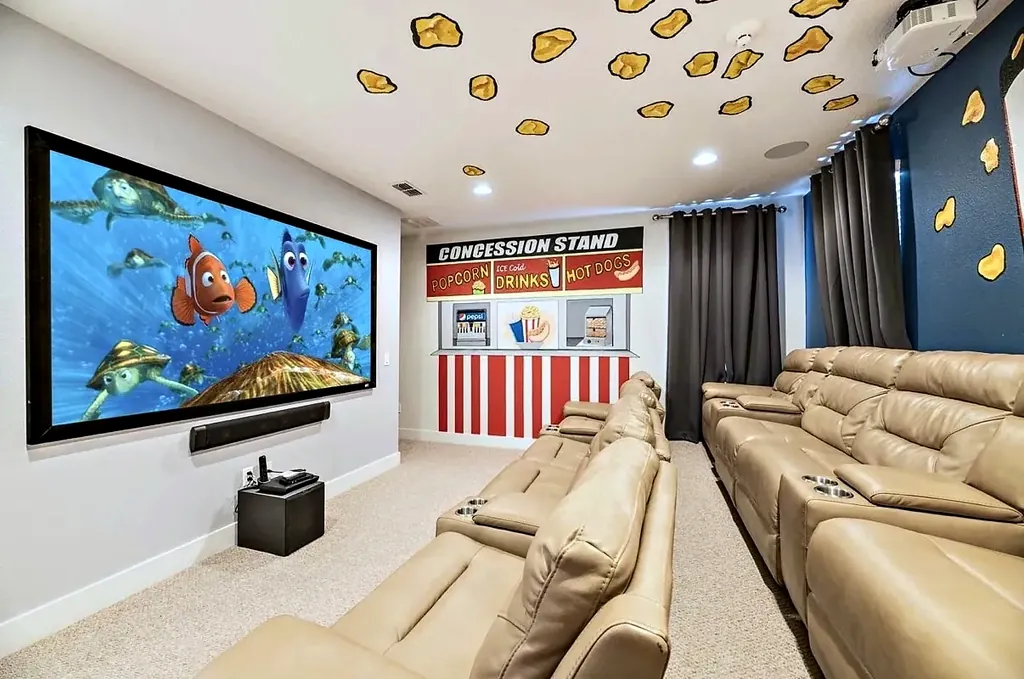
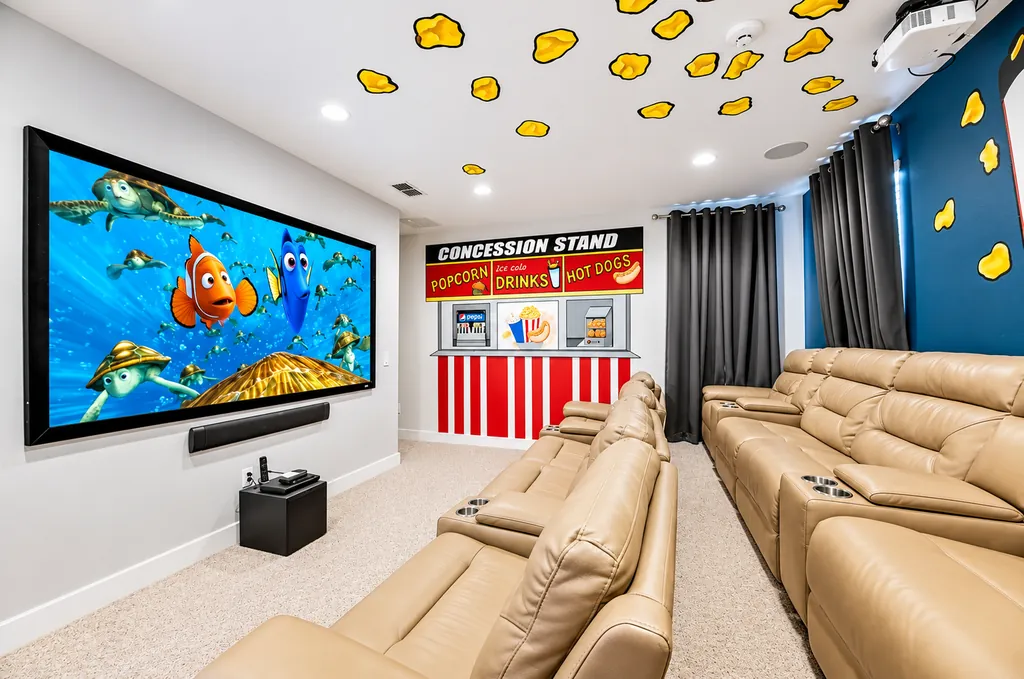
Replace home theater photo with the enhanced version

diff --git a/index.html b/index.html
@@ -9,7 +9,7 @@
 
   <meta property="og:title" content="Villa Serena · 8-Bedroom Private Pool Villa">
   <meta property="og:description" content="8 bedrooms · 8 bathrooms · 13 beds · private pool. Book your family's Orlando stay direct.">
-  <meta property="og:image" content="assets/img/pool-lanai.jpg?v=22">
+  <meta property="og:image" content="assets/img/pool-lanai.jpg?v=23">
   <meta property="og:type" content="website">
 
   <link rel="icon" href="assets/favicon.svg" type="image/svg+xml">
@@ -17,8 +17,8 @@
   <link rel="preconnect" href="https://fonts.gstatic.com" crossorigin>
   <link href="https://fonts.googleapis.com/css2?family=Newsreader:ital,opsz,wght@0,6..72,400;0,6..72,500;1,6..72,400&family=Instrument+Sans:wght@400;500;600&display=swap" rel="stylesheet">
 
-  <link rel="preload" as="image" href="assets/img/pool-lanai-1616.webp?v=22"
-        imagesrcset="assets/img/pool-lanai-640.webp?v=22 640w, assets/img/pool-lanai-1024.webp?v=22 1024w, assets/img/pool-lanai-1616.webp?v=22 1616w"
+  <link rel="preload" as="image" href="assets/img/pool-lanai-1616.webp?v=23"
+        imagesrcset="assets/img/pool-lanai-640.webp?v=23 640w, assets/img/pool-lanai-1024.webp?v=23 1024w, assets/img/pool-lanai-1616.webp?v=23 1616w"
         imagesizes="100vw" type="image/webp">
   <link rel="stylesheet" href="css/styles.css">
 </head>
@@ -79,9 +79,9 @@
   <div class="hero-media">
     <picture>
       <source type="image/webp"
-              srcset="assets/img/pool-lanai-640.webp?v=22 640w, assets/img/pool-lanai-1024.webp?v=22 1024w, assets/img/pool-lanai-1616.webp?v=22 1616w"
+              srcset="assets/img/pool-lanai-640.webp?v=23 640w, assets/img/pool-lanai-1024.webp?v=23 1024w, assets/img/pool-lanai-1616.webp?v=23 1616w"
               sizes="100vw">
-      <img src="assets/img/pool-lanai.jpg?v=22" alt="The villa's private pool and spa with sun loungers and a covered lanai" width="1616" height="967" fetchpriority="high">
+      <img src="assets/img/pool-lanai.jpg?v=23" alt="The villa's private pool and spa with sun loungers and a covered lanai" width="1616" height="967" fetchpriority="high">
     </picture>
   </div>
   <div class="hero-shade" aria-hidden="true"></div>
@@ -117,14 +117,14 @@
     <div class="welcome-media reveal">
       <figure class="wm-main">
         <picture>
-          <source type="image/webp" srcset="assets/img/exterior-front-640.webp?v=22 640w, assets/img/exterior-front-1024.webp?v=22 1024w, assets/img/exterior-front-1600.webp?v=22 1600w, assets/img/exterior-front-1632.webp?v=22 1632w" sizes="(min-width: 960px) 40vw, 90vw">
-          <img src="assets/img/exterior-front.jpg?v=22" alt="Front exterior of the two-storey villa with a paver driveway" width="1632" height="964" loading="lazy" decoding="async">
+          <source type="image/webp" srcset="assets/img/exterior-front-640.webp?v=23 640w, assets/img/exterior-front-1024.webp?v=23 1024w, assets/img/exterior-front-1600.webp?v=23 1600w, assets/img/exterior-front-1632.webp?v=23 1632w" sizes="(min-width: 960px) 40vw, 90vw">
+          <img src="assets/img/exterior-front.jpg?v=23" alt="Front exterior of the two-storey villa with a paver driveway" width="1632" height="964" loading="lazy" decoding="async">
         </picture>
       </figure>
       <figure class="wm-accent">
         <picture>
-          <source type="image/webp" srcset="assets/img/dining-living-640.webp?v=22 640w, assets/img/dining-living-1024.webp?v=22 1024w" sizes="(min-width: 960px) 22vw, 50vw">
-          <img src="assets/img/dining-living.jpg?v=22" alt="Open-plan dining area with a large table and the living room beyond" width="2560" height="1920" loading="lazy" decoding="async">
+          <source type="image/webp" srcset="assets/img/dining-living-640.webp?v=23 640w, assets/img/dining-living-1024.webp?v=23 1024w" sizes="(min-width: 960px) 22vw, 50vw">
+          <img src="assets/img/dining-living.jpg?v=23" alt="Open-plan dining area with a large table and the living room beyond" width="2560" height="1920" loading="lazy" decoding="async">
         </picture>
       </figure>
           </div>
@@ -135,15 +135,15 @@
 <section class="photo-band" aria-label="The kitchen and living room">
   <figure>
     <picture>
-      <source type="image/webp" srcset="assets/img/kitchen-640.webp?v=22 640w, assets/img/kitchen-1024.webp?v=22 1024w, assets/img/kitchen-1600.webp?v=22 1600w, assets/img/kitchen-1634.webp?v=22 1634w" sizes="(min-width: 760px) 50vw, 100vw">
-      <img src="assets/img/kitchen.jpg?v=22" alt="Kitchen with dark cabinets, stainless appliances and an island with four bar stools" width="1634" height="962" loading="lazy" decoding="async">
+      <source type="image/webp" srcset="assets/img/kitchen-640.webp?v=23 640w, assets/img/kitchen-1024.webp?v=23 1024w, assets/img/kitchen-1600.webp?v=23 1600w, assets/img/kitchen-1634.webp?v=23 1634w" sizes="(min-width: 760px) 50vw, 100vw">
+      <img src="assets/img/kitchen.jpg?v=23" alt="Kitchen with dark cabinets, stainless appliances and an island with four bar stools" width="1634" height="962" loading="lazy" decoding="async">
     </picture>
     <figcaption>Kitchen</figcaption>
   </figure>
   <figure>
     <picture>
-      <source type="image/webp" srcset="assets/img/living-room-640.webp?v=22 640w, assets/img/living-room-1024.webp?v=22 1024w, assets/img/living-room-1536.webp?v=22 1536w" sizes="(min-width: 760px) 50vw, 100vw">
-      <img src="assets/img/living-room.jpg?v=22" alt="Living room with sectional sofa and sliding doors to the pool" width="1536" height="1024" loading="lazy" decoding="async">
+      <source type="image/webp" srcset="assets/img/living-room-640.webp?v=23 640w, assets/img/living-room-1024.webp?v=23 1024w, assets/img/living-room-1536.webp?v=23 1536w" sizes="(min-width: 760px) 50vw, 100vw">
+      <img src="assets/img/living-room.jpg?v=23" alt="Living room with sectional sofa and sliding doors to the pool" width="1536" height="1024" loading="lazy" decoding="async">
     </picture>
     <figcaption>Living room</figcaption>
   </figure>
@@ -250,20 +250,20 @@
     <div class="villa-band reveal">
       <figure>
         <picture>
-          <source type="image/webp" srcset="assets/img/bedroom-twin-beds-640.webp?v=22 640w, assets/img/bedroom-twin-beds-1024.webp?v=22 1024w, assets/img/bedroom-twin-beds-1446.webp?v=22 1446w" sizes="(min-width: 960px) 33vw, 100vw">
-          <img src="assets/img/bedroom-twin-beds.jpg?v=22" alt="Bedroom with two beds and a tall upholstered headboard" width="1446" height="1087" loading="lazy" decoding="async">
+          <source type="image/webp" srcset="assets/img/bedroom-twin-beds-640.webp?v=23 640w, assets/img/bedroom-twin-beds-1024.webp?v=23 1024w, assets/img/bedroom-twin-beds-1446.webp?v=23 1446w" sizes="(min-width: 960px) 33vw, 100vw">
+          <img src="assets/img/bedroom-twin-beds.jpg?v=23" alt="Bedroom with two beds and a tall upholstered headboard" width="1446" height="1087" loading="lazy" decoding="async">
         </picture>
       </figure>
       <figure>
         <picture>
-          <source type="image/webp" srcset="assets/img/bunk-room-640.webp?v=22 640w, assets/img/bunk-room-1024.webp?v=22 1024w, assets/img/bunk-room-1600.webp?v=22 1600w" sizes="(min-width: 960px) 33vw, 100vw">
-          <img src="assets/img/bunk-room.jpg?v=22" alt="Kids' bunk room with a mural wall" width="2560" height="1920" loading="lazy" decoding="async">
+          <source type="image/webp" srcset="assets/img/bunk-room-640.webp?v=23 640w, assets/img/bunk-room-1024.webp?v=23 1024w, assets/img/bunk-room-1600.webp?v=23 1600w" sizes="(min-width: 960px) 33vw, 100vw">
+          <img src="assets/img/bunk-room.jpg?v=23" alt="Kids' bunk room with a mural wall" width="2560" height="1920" loading="lazy" decoding="async">
         </picture>
       </figure>
       <figure>
         <picture>
-          <source type="image/webp" srcset="assets/img/bathroom-double-vanity-640.webp?v=22 640w, assets/img/bathroom-double-vanity-1024.webp?v=22 1024w, assets/img/bathroom-double-vanity-1600.webp?v=22 1600w, assets/img/bathroom-double-vanity-1645.webp?v=22 1645w" sizes="(min-width: 960px) 33vw, 100vw">
-          <img src="assets/img/bathroom-double-vanity.jpg?v=22" alt="Bathroom with a double vanity, glass shower and tub" width="1645" height="956" loading="lazy" decoding="async">
+          <source type="image/webp" srcset="assets/img/bathroom-double-vanity-640.webp?v=23 640w, assets/img/bathroom-double-vanity-1024.webp?v=23 1024w, assets/img/bathroom-double-vanity-1600.webp?v=23 1600w, assets/img/bathroom-double-vanity-1645.webp?v=23 1645w" sizes="(min-width: 960px) 33vw, 100vw">
+          <img src="assets/img/bathroom-double-vanity.jpg?v=23" alt="Bathroom with a double vanity, glass shower and tub" width="1645" height="956" loading="lazy" decoding="async">
         </picture>
       </figure>
     </div>
@@ -277,9 +277,9 @@
       <div class="amen-feature reveal">
         <figure class="amen-photo">
           <picture>
-            <source type="image/webp" media="(min-width: 641px) and (max-width: 960px)" srcset="assets/img/pool-deck-640.webp?v=22 640w, assets/img/pool-deck-1024.webp?v=22 1024w, assets/img/pool-deck-1206.webp?v=22 1206w" sizes="100vw">
-            <source type="image/webp" srcset="assets/img/pool-deck-tall-640.webp?v=22 640w, assets/img/pool-deck-tall-1024.webp?v=22 1024w, assets/img/pool-deck-tall-1086.webp?v=22 1086w" sizes="(min-width: 960px) 45vw, 100vw">
-            <img src="assets/img/pool-deck-tall.jpg?v=22" alt="Pool deck with spa, loungers and outdoor dining under a blue sky" width="1086" height="1448" loading="lazy" decoding="async">
+            <source type="image/webp" media="(min-width: 641px) and (max-width: 960px)" srcset="assets/img/pool-deck-640.webp?v=23 640w, assets/img/pool-deck-1024.webp?v=23 1024w, assets/img/pool-deck-1206.webp?v=23 1206w" sizes="100vw">
+            <source type="image/webp" srcset="assets/img/pool-deck-tall-640.webp?v=23 640w, assets/img/pool-deck-tall-1024.webp?v=23 1024w, assets/img/pool-deck-tall-1086.webp?v=23 1086w" sizes="(min-width: 960px) 45vw, 100vw">
+            <img src="assets/img/pool-deck-tall.jpg?v=23" alt="Pool deck with spa, loungers and outdoor dining under a blue sky" width="1086" height="1448" loading="lazy" decoding="async">
           </picture>
           <figcaption>
             <strong>Fully private pool area</strong>
@@ -337,29 +337,29 @@
     <div class="amen-strip reveal" aria-label="More of the villa">
       <figure>
         <picture>
-          <source type="image/webp" srcset="assets/img/sitting-area-640.webp?v=22 640w, assets/img/sitting-area-1024.webp?v=22 1024w, assets/img/sitting-area-1600.webp?v=22 1600w" sizes="(min-width: 960px) 25vw, 70vw">
-          <img src="assets/img/sitting-area.jpg?v=22" alt="Sitting area with two armchairs and large blue and gold artwork" width="2560" height="1920" loading="lazy" decoding="async">
+          <source type="image/webp" srcset="assets/img/sitting-area-640.webp?v=23 640w, assets/img/sitting-area-1024.webp?v=23 1024w, assets/img/sitting-area-1600.webp?v=23 1600w" sizes="(min-width: 960px) 25vw, 70vw">
+          <img src="assets/img/sitting-area.jpg?v=23" alt="Sitting area with two armchairs and large blue and gold artwork" width="2560" height="1920" loading="lazy" decoding="async">
         </picture>
         <figcaption>Sitting area</figcaption>
       </figure>
       <figure>
         <picture>
-          <source type="image/webp" srcset="assets/img/home-theater-640.webp?v=22 640w, assets/img/home-theater-1024.webp?v=22 1024w, assets/img/home-theater-1206.webp?v=22 1206w" sizes="(min-width: 960px) 25vw, 70vw">
-          <img src="assets/img/home-theater.jpg?v=22" alt="Home theater with a large screen and recliner seating" width="1206" height="800" loading="lazy" decoding="async">
+          <source type="image/webp" srcset="assets/img/home-theater-640.webp?v=23 640w, assets/img/home-theater-1024.webp?v=23 1024w, assets/img/home-theater-1540.webp?v=23 1540w" sizes="(min-width: 960px) 25vw, 70vw">
+          <img src="assets/img/home-theater.jpg?v=23" alt="Home theater with a large screen and recliner seating" width="1540" height="1021" loading="lazy" decoding="async">
         </picture>
         <figcaption>Home theater</figcaption>
       </figure>
       <figure>
         <picture>
-          <source type="image/webp" srcset="assets/img/game-room-640.webp?v=22 640w, assets/img/game-room-1024.webp?v=22 1024w, assets/img/game-room-1600.webp?v=22 1600w" sizes="(min-width: 960px) 25vw, 70vw">
-          <img src="assets/img/game-room.jpg?v=22" alt="Game room with table tennis, foosball and an arcade cabinet" width="2560" height="1920" loading="lazy" decoding="async">
+          <source type="image/webp" srcset="assets/img/game-room-640.webp?v=23 640w, assets/img/game-room-1024.webp?v=23 1024w, assets/img/game-room-1600.webp?v=23 1600w" sizes="(min-width: 960px) 25vw, 70vw">
+          <img src="assets/img/game-room.jpg?v=23" alt="Game room with table tennis, foosball and an arcade cabinet" width="2560" height="1920" loading="lazy" decoding="async">
         </picture>
         <figcaption>Game room</figcaption>
       </figure>
       <figure>
         <picture>
-          <source type="image/webp" srcset="assets/img/dining-room-640.webp?v=22 640w, assets/img/dining-room-1024.webp?v=22 1024w, assets/img/dining-room-1448.webp?v=22 1448w" sizes="(min-width: 960px) 25vw, 70vw">
-          <img src="assets/img/dining-room.jpg?v=22" alt="Dining room with a large white table and chandelier" width="1448" height="1086" loading="lazy" decoding="async">
+          <source type="image/webp" srcset="assets/img/dining-room-640.webp?v=23 640w, assets/img/dining-room-1024.webp?v=23 1024w, assets/img/dining-room-1448.webp?v=23 1448w" sizes="(min-width: 960px) 25vw, 70vw">
+          <img src="assets/img/dining-room.jpg?v=23" alt="Dining room with a large white table and chandelier" width="1448" height="1086" loading="lazy" decoding="async">
         </picture>
         <figcaption>Dining</figcaption>
       </figure>
@@ -431,8 +431,8 @@
 <section class="book" id="book">
   <div class="book-media" aria-hidden="true">
     <picture>
-      <source type="image/webp" srcset="assets/img/exterior-front-640.webp?v=22 640w, assets/img/exterior-front-1024.webp?v=22 1024w, assets/img/exterior-front-1600.webp?v=22 1600w, assets/img/exterior-front-1632.webp?v=22 1632w" sizes="100vw">
-      <img src="assets/img/exterior-front.jpg?v=22" alt="" width="1632" height="964" loading="lazy" decoding="async">
+      <source type="image/webp" srcset="assets/img/exterior-front-640.webp?v=23 640w, assets/img/exterior-front-1024.webp?v=23 1024w, assets/img/exterior-front-1600.webp?v=23 1600w, assets/img/exterior-front-1632.webp?v=23 1632w" sizes="100vw">
+      <img src="assets/img/exterior-front.jpg?v=23" alt="" width="1632" height="964" loading="lazy" decoding="async">
     </picture>
   </div>
   <div class="book-shade" aria-hidden="true"></div>

diff --git a/js/main.js b/js/main.js
@@ -19,7 +19,7 @@ const PHOTOS = [
   { slug: "pool-lanai",            cat: "outdoor",   caption: "Private pool, spa & covered lanai",  w: 1616, size: "big", ws: [640, 1024, 1616] },
   { slug: "exterior-front",        cat: "outdoor",   caption: "Welcome to the villa",               w: 1632, size: "wide", ws: [640, 1024, 1600, 1632] },
   { slug: "kitchen",               cat: "living",    caption: "Fully equipped kitchen",             w: 1634, ws: [640, 1024, 1600, 1634] },
-  { slug: "home-theater",          cat: "fun",       caption: "Home theater",                       w: 1206 },
+  { slug: "home-theater",          cat: "fun",       caption: "Home theater",                       w: 1540, ws: [640, 1024, 1540] },
   { slug: "living-room",           cat: "living",    caption: "Living room",                        w: 1536, size: "wide", ws: [640, 1024, 1536] },
   { slug: "dining-room",           cat: "living",    caption: "Dining room",                        w: 1448, ws: [640, 1024, 1448] },
   { slug: "game-room",             cat: "fun",       caption: "Game room",                          w: 2560 },
@@ -45,7 +45,7 @@ const PHOTOS = [
 ];
 const INITIAL_COUNT = 4;
 const IMG = "assets/img/";
-const IMG_V = "?v=22"; // bump when photos change so browsers fetch the new files
+const IMG_V = "?v=23"; // bump when photos change so browsers fetch the new files
 
 const widthsFor = (p) => p.ws || (p.w > 1206 ? [640, 1024, 1600, 2200] : [640, 1024, 1206]);
 const srcset = (p, max = Infinity) =>

diff --git a/README.md b/README.md
@@ -104,4 +104,4 @@ it, then repeat the polish and the wall recolour.
 
 Browsers keep photos for a day (see `vercel.json`). When a photo changes, bump the
 version tag so visitors get the new file right away: `IMG_V` at the top of `js/main.js`
-and every `?v=` in `index.html` (find and replace `?v=22` with `?v=23`).
+and every `?v=` in `index.html` (find and replace `?v=23` with `?v=24`).
